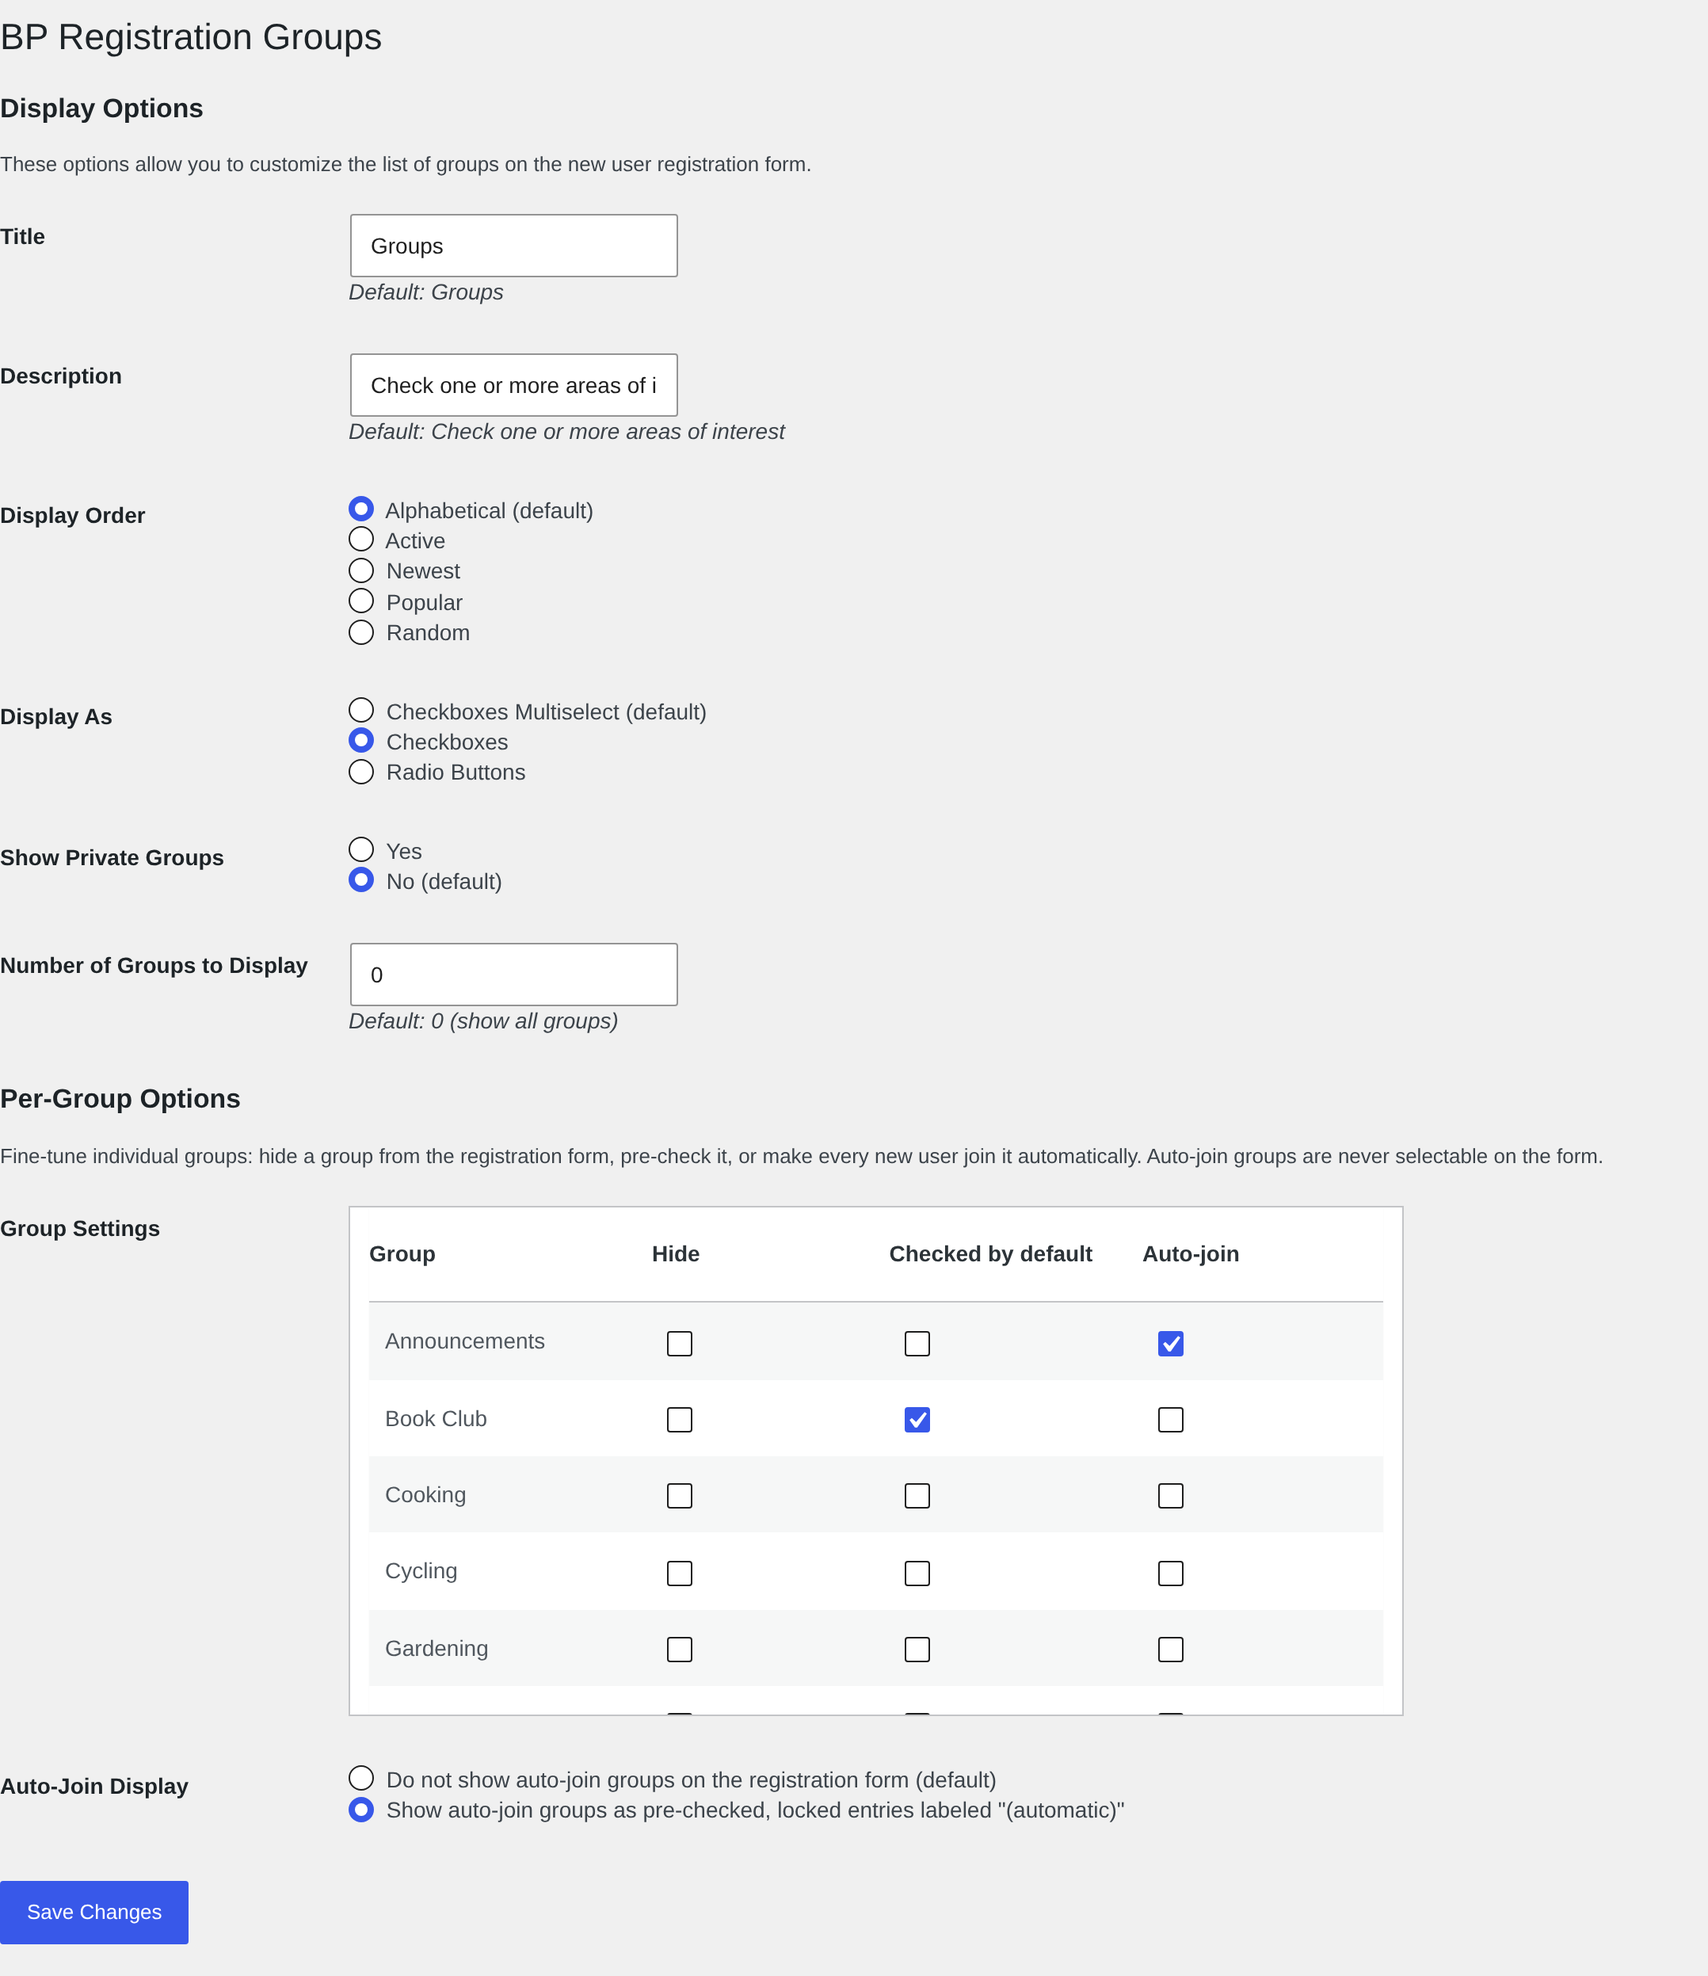
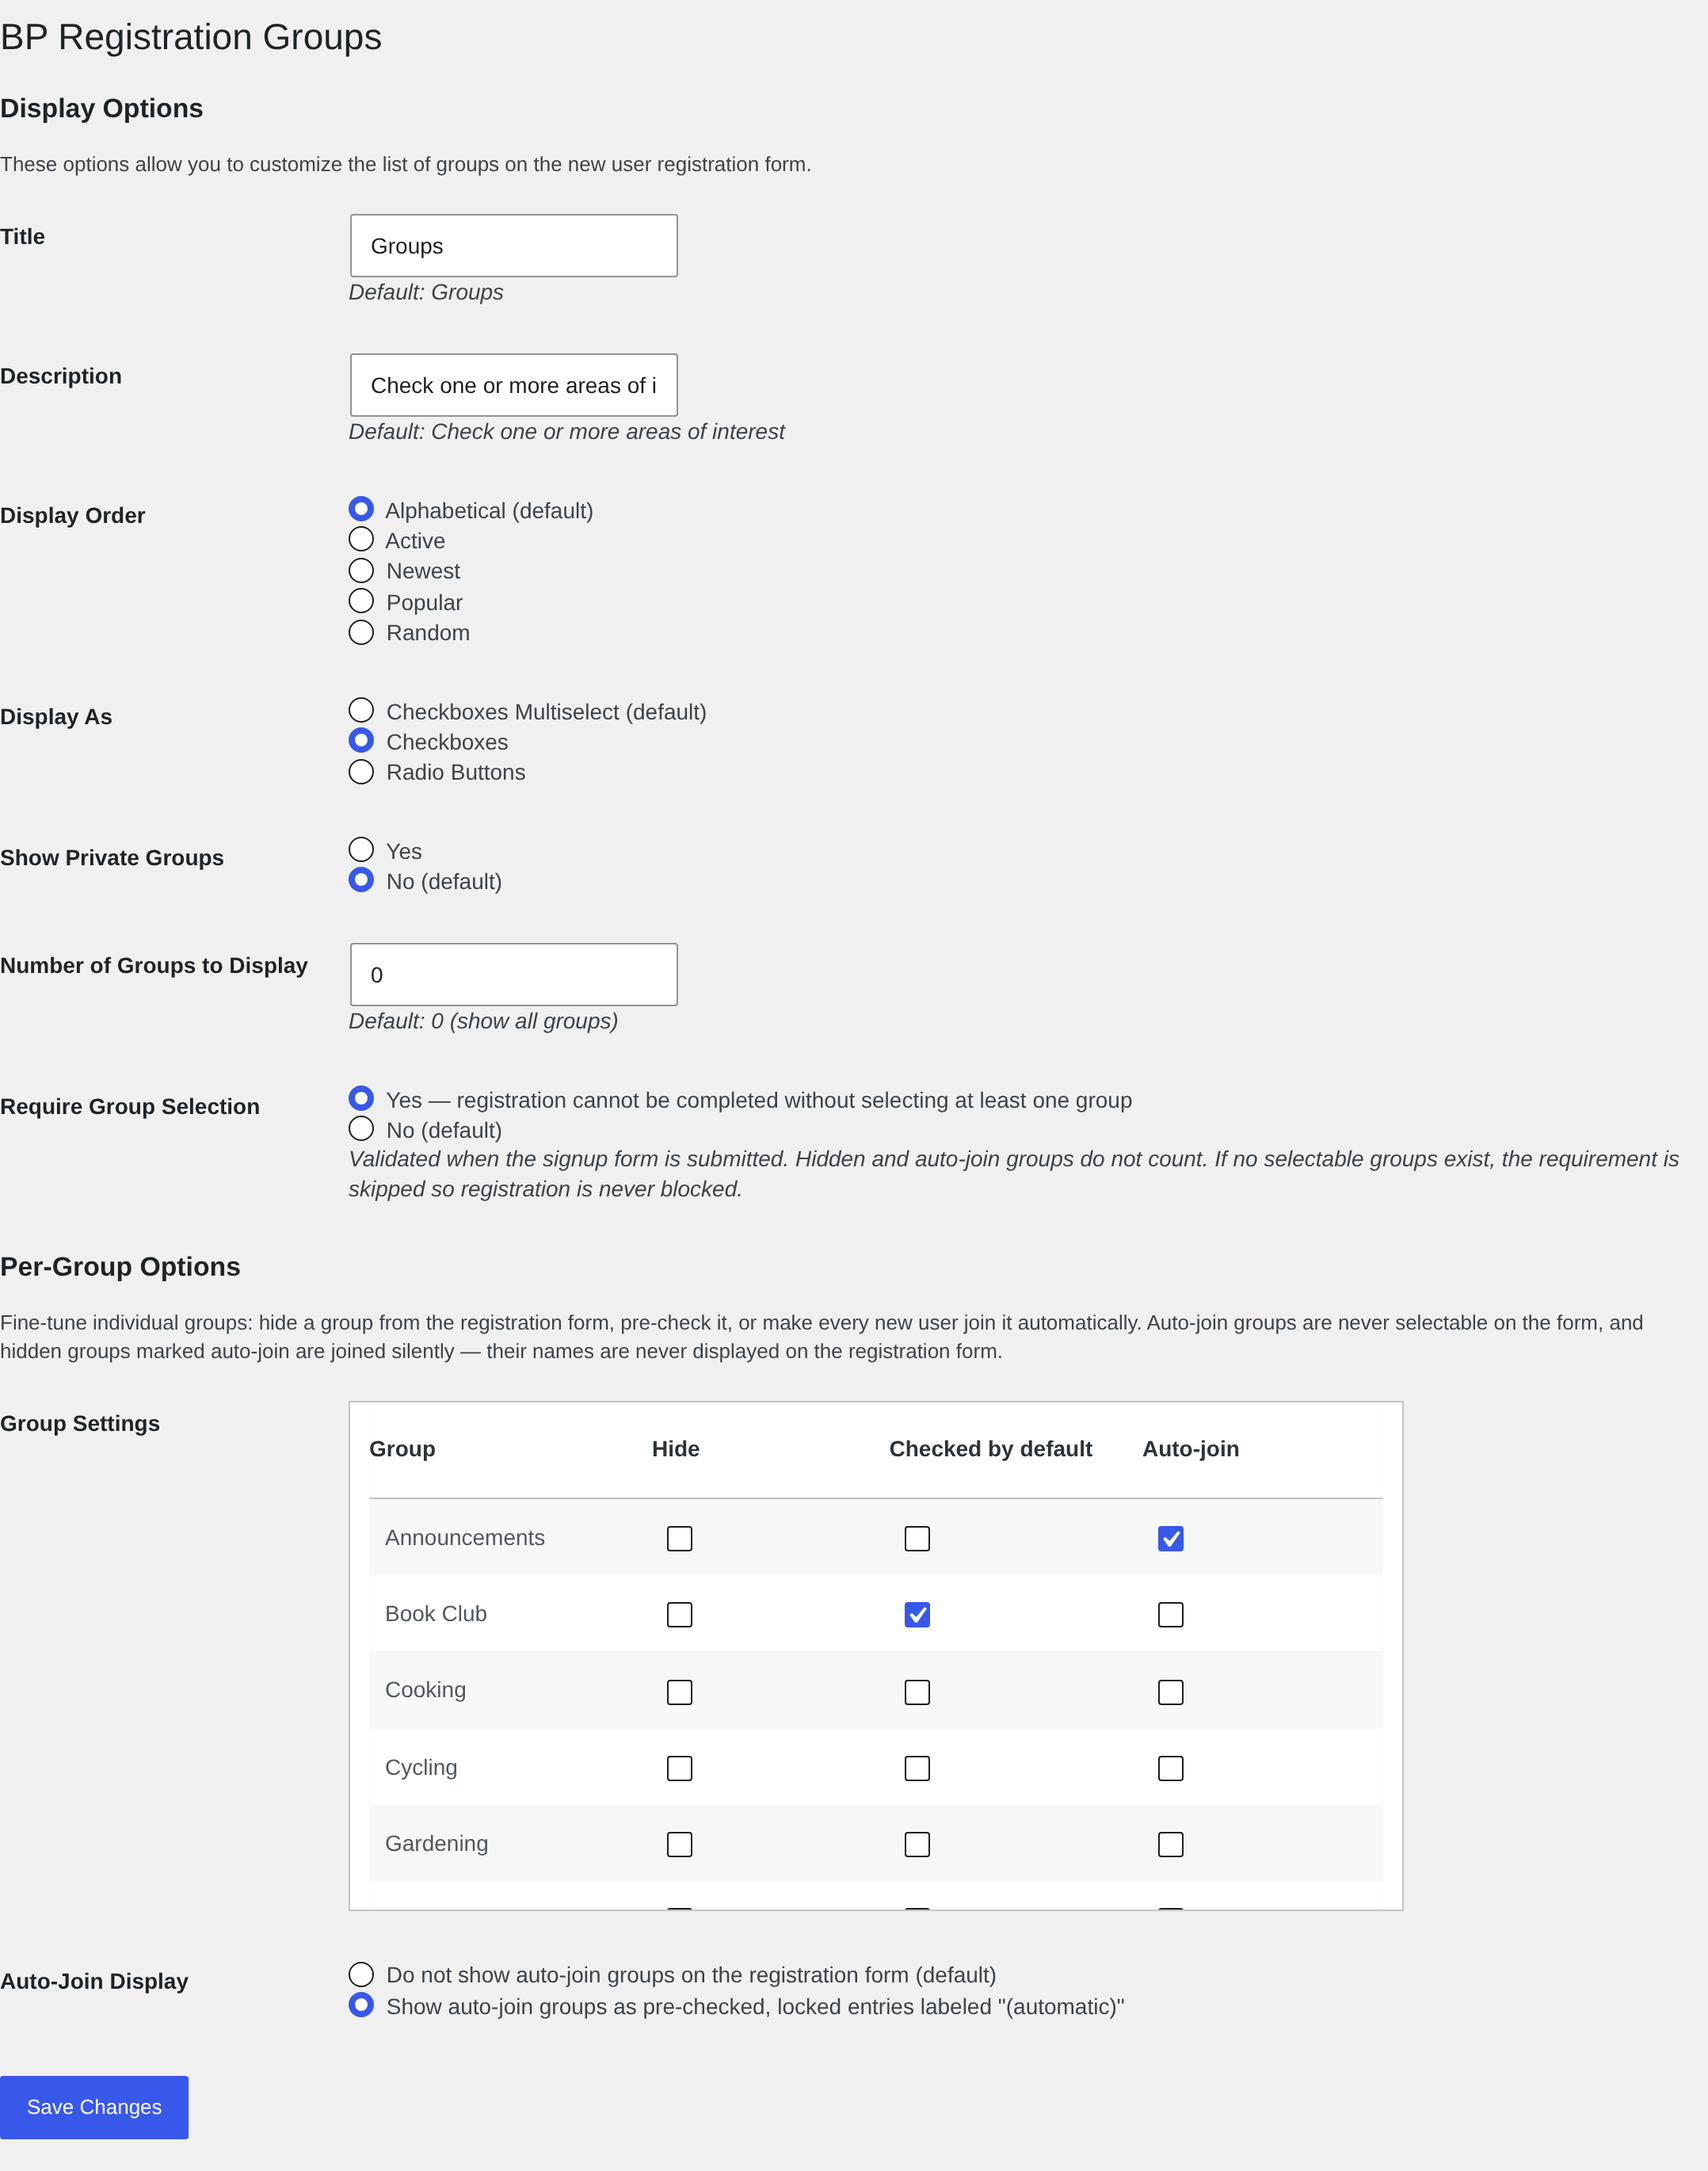
Refresh settings screenshot and add required-selection screenshot
Captured on a live WordPress 7.0.4 + BuddyPress 14.5.2 install (Twenty
Twenty-Five, same sample groups as the existing screenshots):

- screenshot-4: admin settings page re-captured to include the new
  'Require Group Selection' setting.
- screenshot-6 (new): the registration form blocked with the accessible
  inline error after submitting with no group selected.

The capture doubled as an end-to-end check of the new validation: the
signup was rejected server-side on 'bp_signup_validate' and the form
re-rendered with the error, with no PHP warnings logged.

Claude-Session: https://claude.ai/code/session_01HiRFDByejdAUxUJAbkRFrJ

diff --git a/README.md b/README.md
@@ -160,6 +160,7 @@ Changelog
 * The registrant's group selections are now preserved when signup validation fails for any reason (previously the list reset to the admin defaults).
 * If the requirement is enabled but no selectable groups exist, it is skipped so registration is never blocked, and a warning is shown on the plugin settings page.
 * Added a regression test suite for the signup validation, signup meta, and group eligibility logic (see the Tests section above).
+* Refreshed the admin settings screenshot to include the new setting and added a sixth screenshot showing the inline error in action.
 
 ### 1.3.0
 * Compatibility release. Tested as working with WordPress 7.0, BuddyPress 14.5, and PHP 8.4, on both single site and multisite.

diff --git a/.wordpress-org/README.md b/.wordpress-org/README.md
@@ -15,7 +15,7 @@ cd svn && svn add --force assets && svn ci -m "Update plugin icon and screenshot
 
 - `icon.svg` — source artwork; wordpress.org serves SVG icons directly.
 - `icon-256x256.png` / `icon-128x128.png` — raster fallbacks.
-- `screenshot-1.png` … `screenshot-5.png` — directory screenshots; their
+- `screenshot-1.png` … `screenshot-6.png` — directory screenshots; their
   captions come from the numbered list in the `== Screenshots ==` section of
   `readme.txt`. Screenshots were moved here from the plugin root as of 1.3.0,
   so they no longer bloat the download zip. Remove any old
